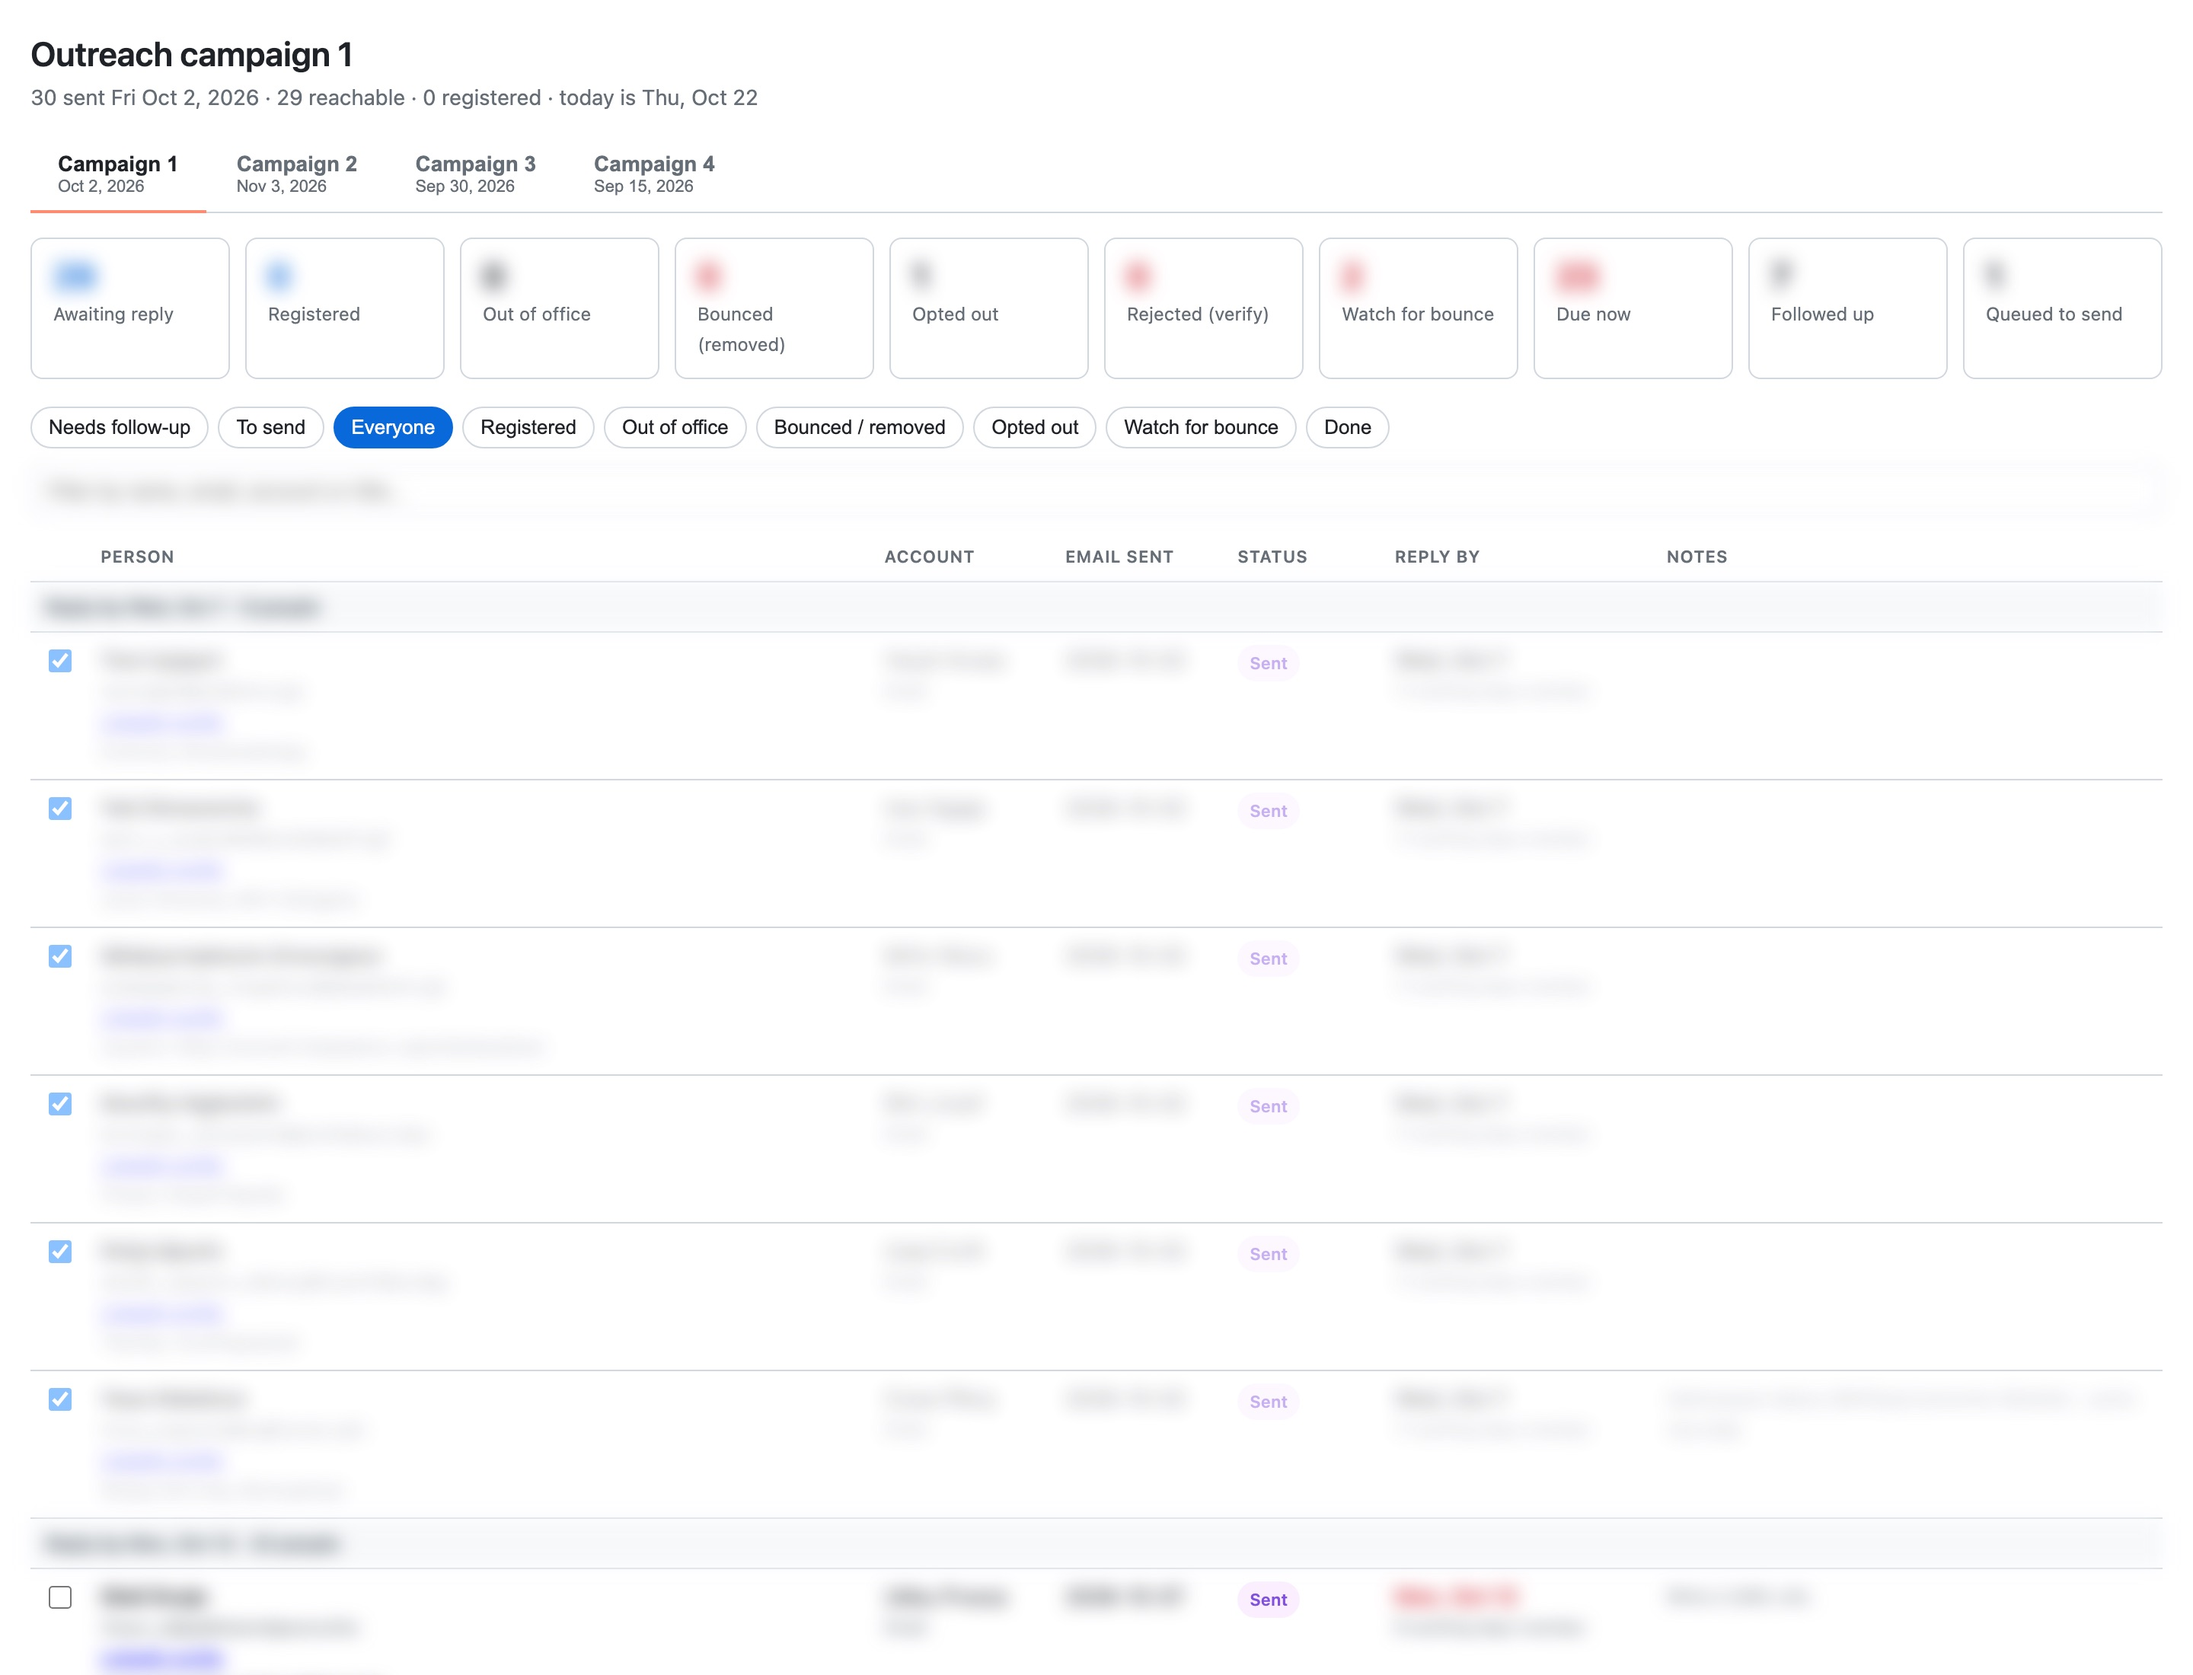
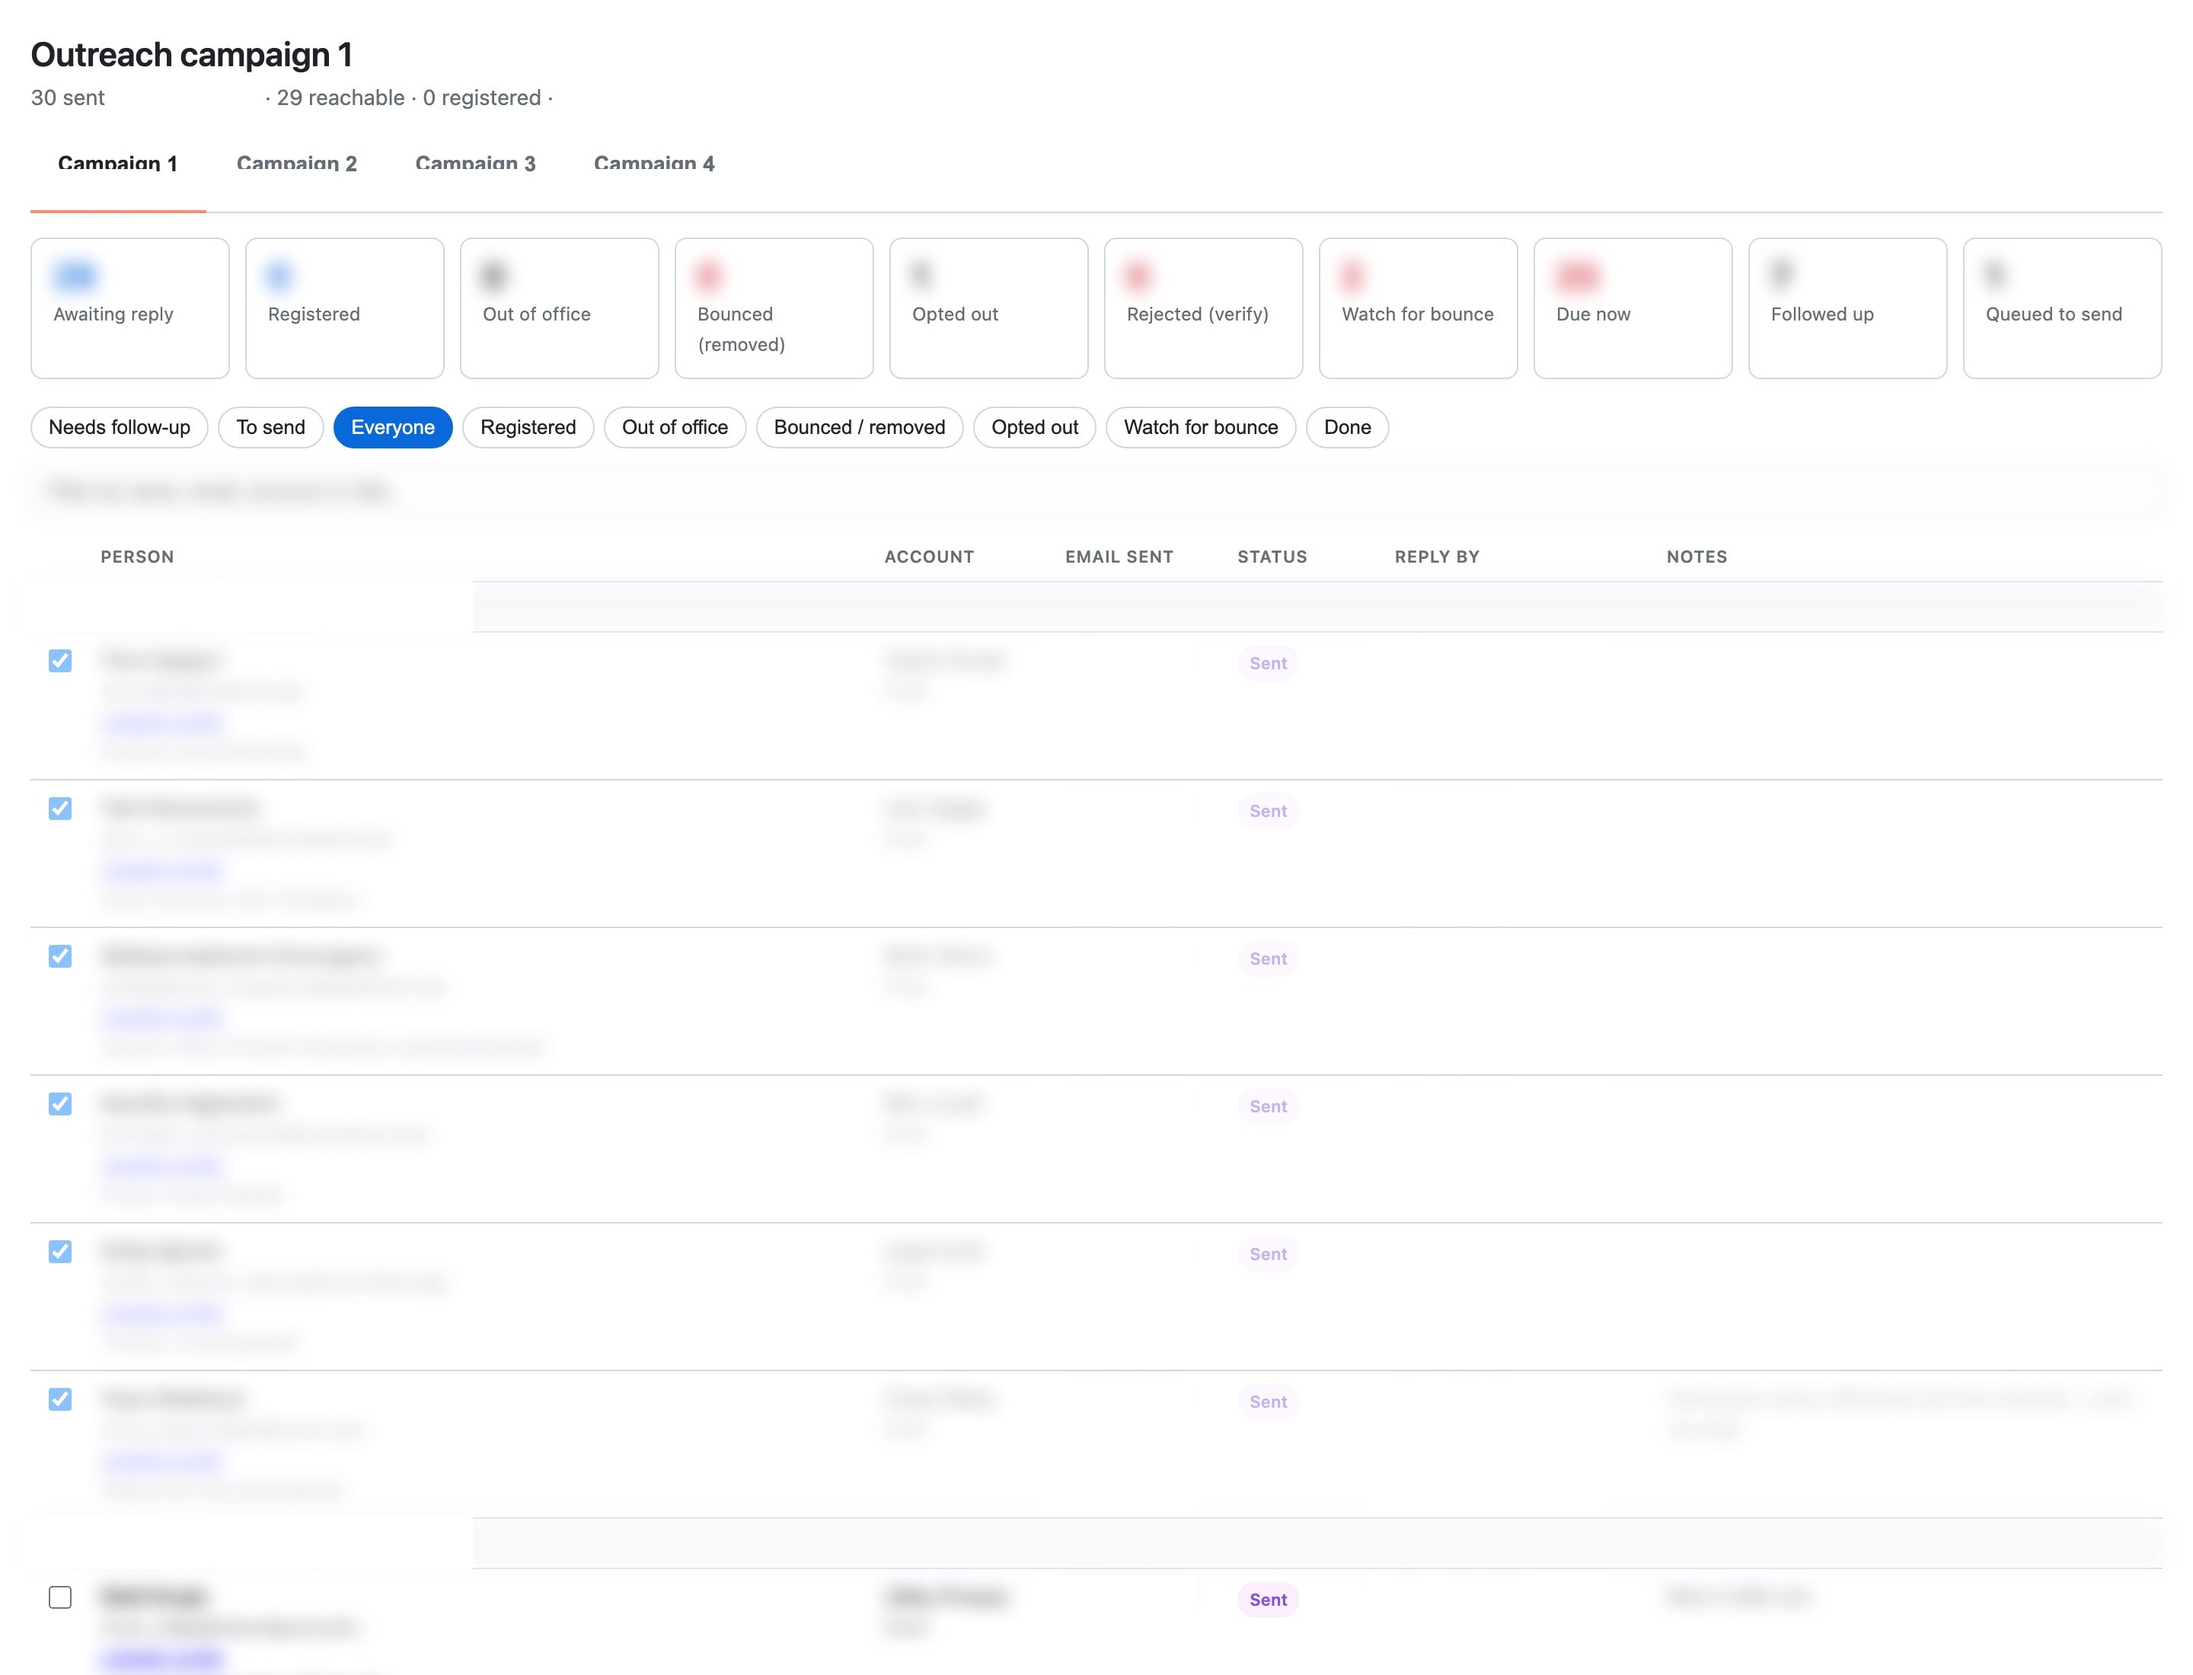
Hide dates in outreach tracker screenshot
Copilot-Session: d7081a7b-ad7f-4874-980b-012439c40671

diff --git a/index.html b/index.html
@@ -354,11 +354,11 @@
       <div class="shots single">
         <figure>
           <a href="assets/outreach-tracker.jpg" target="_blank" rel="noopener">
-            <img src="assets/outreach-tracker.jpg" alt="Outreach tracker canvas with contact details blurred" loading="lazy" width="2880" height="2200">
+            <img src="assets/outreach-tracker.jpg" alt="Outreach tracker canvas with contact details and dates obscured" loading="lazy" width="2880" height="2200">
           </a>
         </figure>
       </div>
-      <p class="note">Contact names, emails and accounts are blurred to protect confidential data.</p>
+      <p class="note">Contact names, emails and accounts are blurred; dates are removed.</p>
     </section>
   </main>
 
